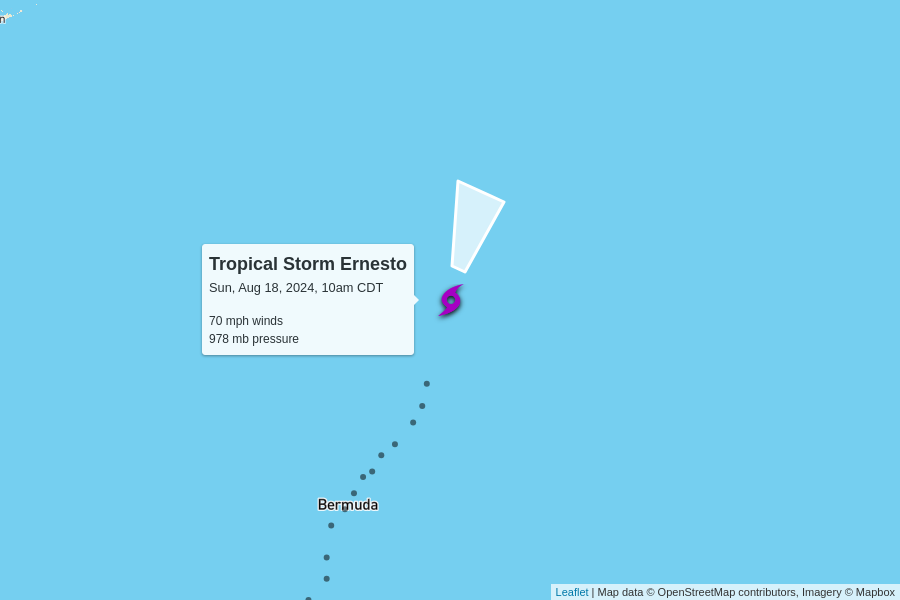
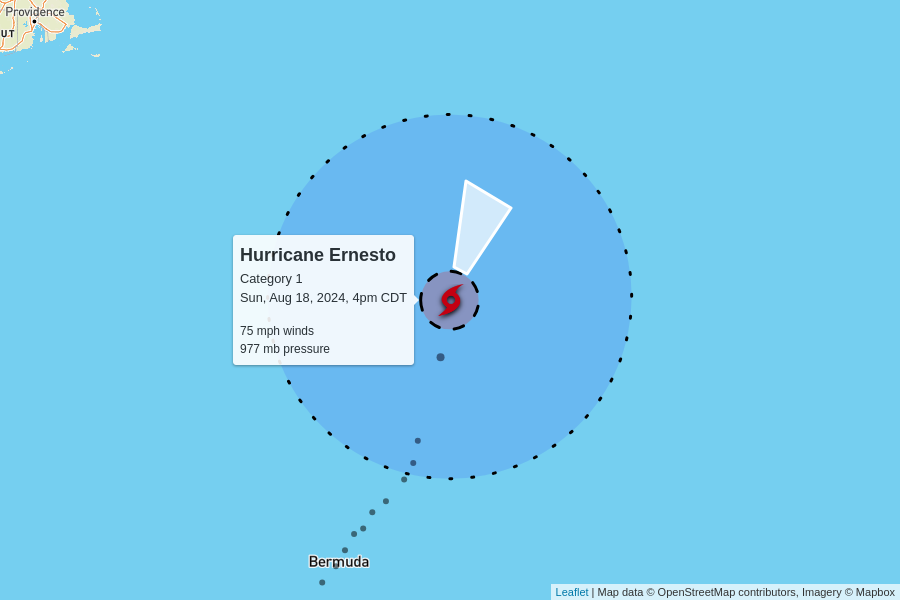
automatic update

diff --git a/docs/index.html b/docs/index.html
@@ -99,10 +99,10 @@
 
     <table>
       <tr>
-        <td colspan="6" class="storm category-0" >
+        <td colspan="6" class="storm category-1" >
           <h2>
-            Tropical Storm Ernesto
-            <p class="updated">last updated <span data-time>2024-08-18T15:00:00.000Z</span></p>
+            Hurricane Ernesto - Category 1
+            <p class="updated">last updated <span data-time>2024-08-18T21:00:00.000Z</span></p>
           </h2>
         </td>
       </tr>
@@ -117,12 +117,12 @@
       </tr>
       <tr>
         <td class="spacer"></td>
-        <td>70 mph<br>0 mph since last update</td>
-        <td>978 mb<br>0 mb since last update</td>
+        <td>75 mph<br>+5 mph since last update</td>
+        <td>977 mb<br>-1 mb since last update</td>
         <td>
-          16 mph to the north-northeast
+          17 mph to the north-northeast
           <br/>
-          <span style="display: inline-block; font-size: 1.5em; transform: rotate(20deg);">↑</span>
+          <span style="display: inline-block; font-size: 1.5em; transform: rotate(25deg);">↑</span>
         </td>
         <td><a href="https://raw.githubusercontent.com/mgwalker/atlantic-hurricanes/main/data/csv/AL052024.csv">AL052024.csv</a></td>
         <td><a href="https://www.nhc.noaa.gov/archive/2024/ERNESTO.shtml?">NHC advisories</a></td>
